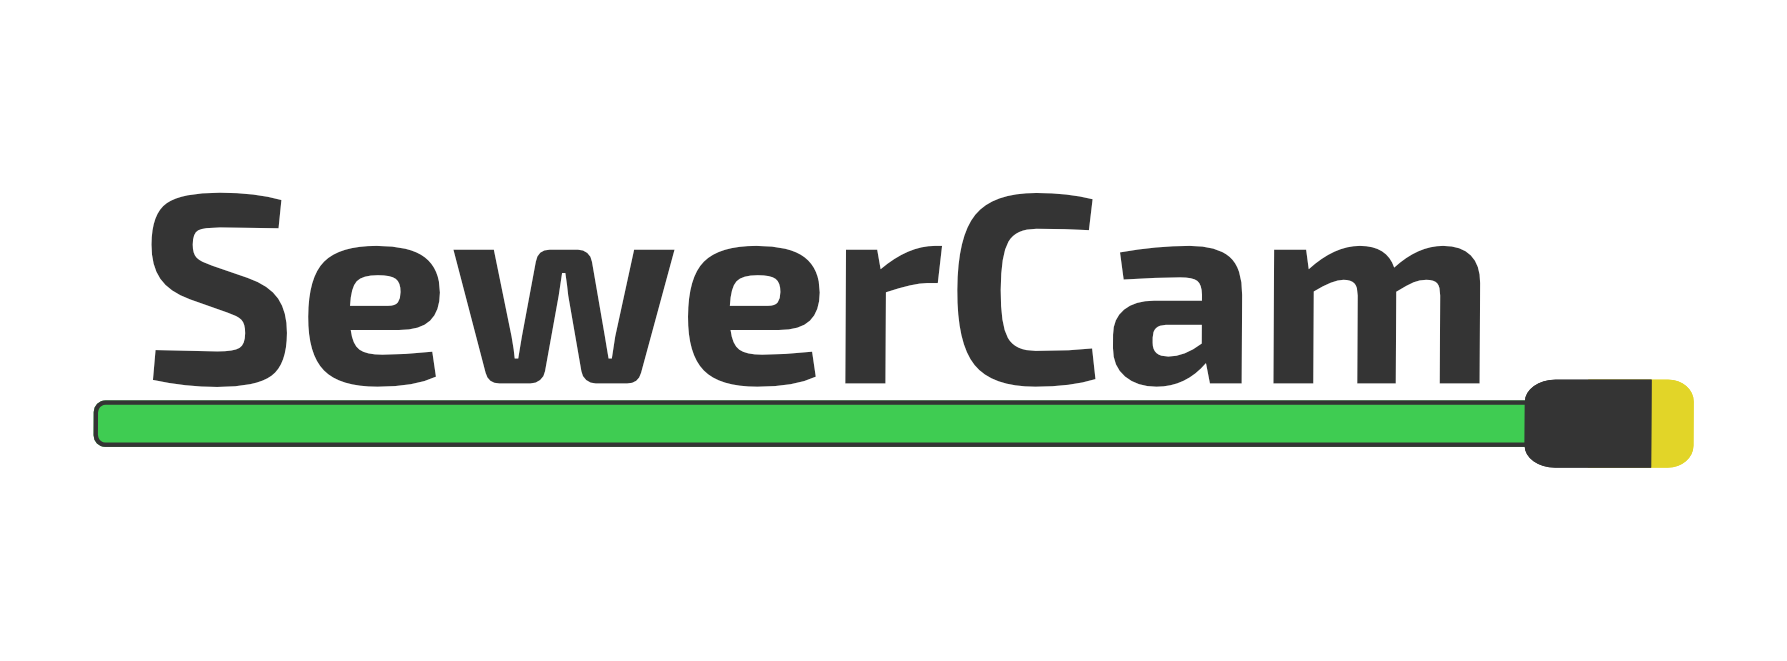
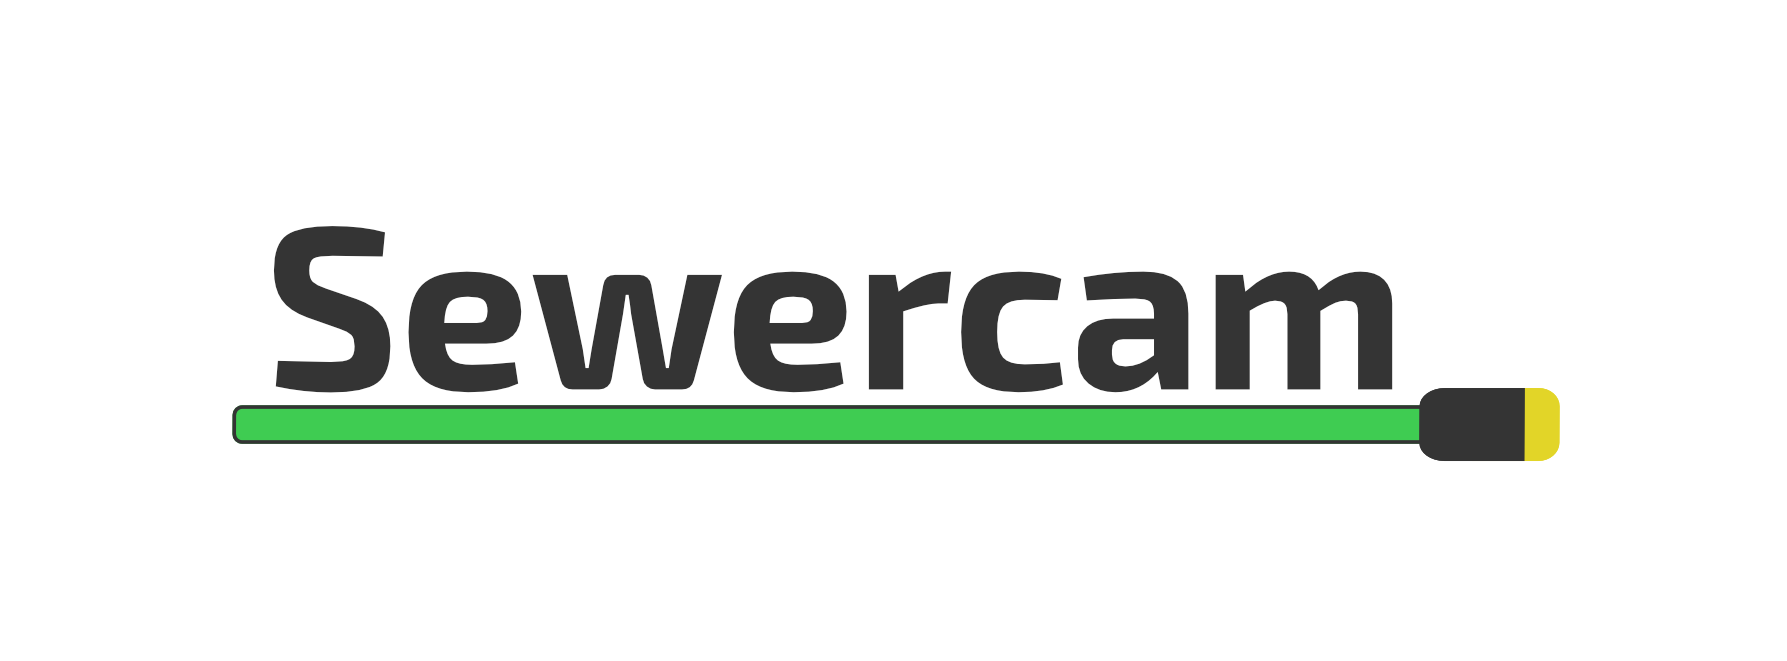
update og image to no camel case

Changed region(s): [[0.0308, 0.2723, 0.9541, 0.7262]]

diff --git a/index.html b/index.html
@@ -3,12 +3,13 @@
 <head>
     <meta charset="UTF-8">
     <meta name="viewport" content="width=device-width, initial-scale=1">
-    <title>Sewercam</title>
+    <title>Unbiased Sewer Scopes</title>
 
     <meta name="google-site-verification" content="FJ56mjWQeU-RU0deN1OcaufquuyB3I8Es8of7cfUpF0">
     <meta name="msvalidate.01" content="9E7B8B29751F45C7B81F5D675EB429A5">
 
     <meta property="og:url" content="http://sewercam.net">
+    <meta property="og:title" content="Unbiased Sewer Scopes">
     <meta property="og:type" content="website">
     <meta property="og:site_name" content="Sewercam">
     <meta property="og:description" content="Sewercam is unbiased&mdash;since we don&rsquo;t make repairs, you can be sure that our sewer scope will only report what&rsquo;s there. Our sewer inspection camera technicians are professional, courteous, and experienced.">

diff --git a/your-sewer-scope.html b/your-sewer-scope.html
@@ -3,9 +3,10 @@
 <head>
     <meta charset="UTF-8">
     <meta name="viewport" content="width=device-width, initial-scale=1">
-    <title>Sewercam</title>
+    <title>Your Sewer Scope</title>
 
     <meta property="og:url" content="http://sewercam.net">
+    <meta property="og:title" content="Your Sewer Scope">
     <meta property="og:type" content="website">
     <meta property="og:site_name" content="Sewercam">
     <meta property="og:description" content="Sewercam is unbiased&mdash;since we don&rsquo;t make repairs, you can be sure that our sewer scope will only report what&rsquo;s there. Our sewer inspection camera technicians are professional, courteous, and experienced.">

diff --git a/common-problems.html b/common-problems.html
@@ -3,9 +3,10 @@
 <head>
     <meta charset="UTF-8">
     <meta name="viewport" content="width=device-width, initial-scale=1">
-    <title>Sewercam</title>
+    <title>Common Problems</title>
 
     <meta property="og:url" content="http://sewercam.net">
+    <meta property="og:title" content="Common Problems">
     <meta property="og:type" content="website">
     <meta property="og:site_name" content="Sewercam">
     <meta property="og:description" content="Sewercam is unbiased&mdash;since we don&rsquo;t make repairs, you can be sure that our sewer scope will only report what&rsquo;s there. Our sewer inspection camera technicians are professional, courteous, and experienced.">

diff --git a/pipe-library.html b/pipe-library.html
@@ -3,9 +3,10 @@
 <head>
 	<meta charset="UTF-8">
 	<meta name="viewport" content="width=device-width, initial-scale=1">
-	<title>Sewercam</title>
+	<title>Pipe Library</title>
 
     <meta property="og:url" content="http://sewercam.net">
+    <meta property="og:title" content="Pipe Library">
     <meta property="og:type" content="website">
     <meta property="og:site_name" content="Sewercam">
     <meta property="og:description" content="Sewercam is unbiased&mdash;since we don&rsquo;t make repairs, you can be sure that our sewer scope will only report what&rsquo;s there. Our sewer inspection camera technicians are professional, courteous, and experienced.">
